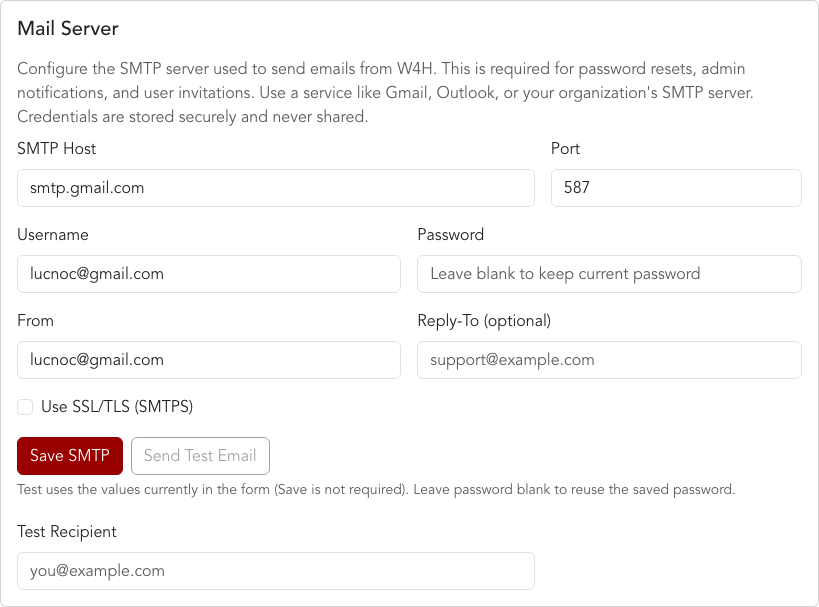
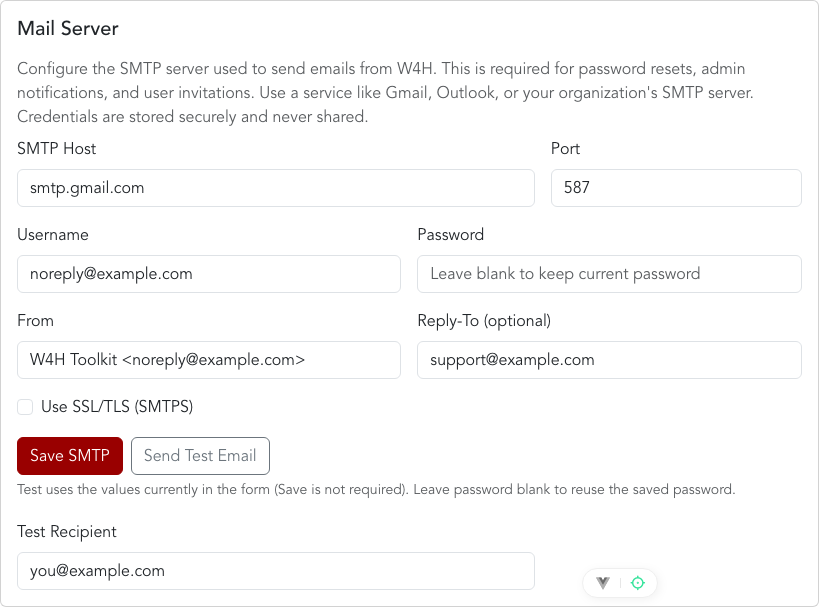
Update role definitions and documentation for project management
- Changed references from "Team admin" to "Project admin" and "Project user" to clarify roles in quick-start.md, ADR-004, and ADR-012.
- Enhanced the "What's New" section to include updates on dataset discoverability and SMTP configuration.
- Updated guides to reflect new role structures and clarified the responsibilities of Super admins, Project admins, and Users.
- Adjusted documentation for SMTP settings to use generic email addresses for better security practices.

diff --git a/dev/ADR-004-acl-roles.md b/dev/ADR-004-acl-roles.md
@@ -8,7 +8,7 @@ updated_at: 2026-07-20T00:00:00.000Z
 
 **Status:** Accepted  
 **Date:** 2026-07-04  
-**Revised:** 2026-07-20  
+**Revised:** 2026-08-12  
 **Deciders:** W4H architecture team  
 **Relates to:** ADR-012 (project–dataset linking), ADR-002 (sharing), ADR-011 (audit)
 
@@ -28,14 +28,13 @@ Access control must be enforceable at the database level (not just the applicati
 
 ### Canonical vocabulary (ADR + MVP)
 
-| Canonical name | Scope | Where stored |
+| UI name | Scope | Where stored |
 |---|---|---|
-| **Super admin** | Platform-wide | `users.role = super_admin` |
-| **Team admin** | One team / trial | `team_members.role = team_admin` |
-| **Member** | One team / trial | `team_members.role = member` |
-| **Project user** (by membership) | One project | `project_members.role` = `owner` \| `editor` \| `viewer` |
+| **Super admin** | Platform-wide | `users.role = super_admin` — **not** a project membership |
+| **Project admin** | One team / project | `team_members.role = team_admin` and/or `project_members.role = owner` |
+| **User** | One team / project | `team_members.role = member`; `project_members.role = editor` (legacy `viewer` displays as User) |
 
-Product copy may still say “Project user” for a non–Super-admin account. Effective team authority comes from **team membership role**, not from a global `users.role = team_admin` (legacy — migrate).
+Super admin is platform-only. Do not put Super admin on a project Members dropdown. Effective team authority comes from **team membership role**, not from a global `users.role = team_admin` (legacy — migrate). Stored values `team_admin` / `member` / `owner` / `editor` are unchanged.
 
 ## Decision
 
@@ -51,12 +50,12 @@ Non–Super-admin accounts do **not** carry global Team admin privileges. Their 
 
 ### 2. Team membership roles (per team)
 
-Stored on `team_members.role`:
+Stored on `team_members.role`. Product UI: **Project admin** / **User**.
 
-| Role | Typical use |
-|---|---|
-| `team_admin` | Manage that team's users, projects, datasets, shares; create further teams after onboard; team-scoped audit/IRB |
-| `member` | Participate via project memberships; no team-wide admin on that team |
+| UI label | Stored as | Typical use |
+|---|---|---|
+| **Project admin** | `team_admin` | Manage that team's users, projects, datasets, shares; create further teams after onboard; team-scoped audit/IRB |
+| **User** | `member` | Participate via project memberships; no team-wide admin on that team |
 
 **Dual-hat:** the same user may be `team_admin` on team A and `member` on team B.
 
@@ -66,15 +65,18 @@ Legacy `users.role = team_admin` migrates to `team_members.role = team_admin` on
 
 ### 3. Project membership roles
 
-A member is assigned to a project with one membership role:
+Product UI on a project roster is **Project admin** or **User**. Super admin is platform-wide and is **not** a project membership.
 
-| Membership | Typical use |
-|---|---|
-| `owner` | Manage the project (members, linked datasets, settings); at least one required |
-| `editor` | Run analytics and notebooks; read linked datasets |
-| `viewer` | Read-only dashboards and docs |
+| UI label | Stored as | Typical use |
+|---|---|---|
+| **Project admin** | `owner` | Manage the project (members, linked datasets, settings); at least one required |
+| **User** | `editor` (legacy `viewer` also shows as User) | Work in the project: analytics, notebooks, linked datasets |
 
-These are **not** a platform tier. Legacy project membership `admin` maps to `owner`.
+These are **not** a platform tier. Legacy project membership `admin` maps to `owner`. Legacy `viewer` is treated as User in the UI.
+
+There is **one** Project admin type. Super admin inviting the PI at onboard does not create a second role — that person is a Project admin like any other. GitHub/GitLab-style orgs work the same way: many owners of equal rank, at least one must remain, and platform operators recover access. Do **not** add a “primary PI” vs “invited admin” split.
+
+A Project admin **cannot remove themselves**. Another Project admin (or Super admin, by inviting a replacement) must do that. The last Project admin cannot be removed or demoted.
 
 ### 4. Resource ACL (optional refinement)
 
@@ -117,8 +119,8 @@ Session `search_path` / DB role must follow the **active team context** for the 
 - Cannot exercise Team admin powers on other teams where they are only `member`
 - Cannot enter the Platform Admin UI (`/admin/*` shell is Super admin only)
 
-**Member can:**
-- Act within projects per `owner` / `editor` / `viewer`
+**User can:**
+- Act within projects as **User** (`editor`; legacy `viewer` displays as User) or **Project admin** (`owner`)
 - Read wearable data for datasets **linked** to their projects only
 - As project **`owner` only:** generate a **project-scoped IRB access report** (H-09b) — not raw audit browse
 - Cannot load/create datasets (unless granted a future ingest capability — D-22), manage team users, or access unlinked datasets
@@ -132,7 +134,7 @@ Session `search_path` / DB role must follow the **active team context** for the 
 - Database-enforced boundaries — a misconfigured application cannot leak data between roles
 - Sharing grants are issued to specific DB roles, making them immediately enforceable and revocable
 - The `w4h_platform` DDL role is the only entity that can create views and issue grants — a controlled and auditable path
-- Aligns MVP language: Super admin (platform) · Team admin / member (per team) · project membership roles
+- Aligns MVP language: Super admin (platform) · Project admin / User (per team and project)
 
 **Negative / risks:**
 - Must migrate legacy global `users.role = team_admin` onto `team_members.role`
@@ -158,3 +160,5 @@ Session `search_path` / DB role must follow the **active team context** for the 
 | 2026-07-21 | Super admin Platform Admin shell only (no app toggle); Team admin self-service teams after onboard (MVP v0.13). |
 | 2026-07-20 | **Per-team roles** on `team_members` (`team_admin` \| `member`); dual-hat; legacy global Team admin migrates to membership. Ingest-without-admin = ACL/capability (MVP D-22), not a third team role. |
 | 2026-07-22 | Usage surface `/admin/usage` (study metrics); Team admin team-scoped view; members cannot browse Usage ledger. |
+| 2026-08-12 | Product UI: **Super admin** · **Project admin** · **User**. Stored `team_admin`/`member` and `owner`/`editor` unchanged; Super admin is not a project membership. |
+| 2026-08-12 | One Project admin type (no primary vs invited split). Project admin cannot remove themselves; at least one must remain. |

diff --git a/guide/smpt-configuration.md b/guide/smpt-configuration.md
@@ -76,10 +76,10 @@ Open **Administration → Mail Server** and configure the following fields.
 |--------|-------|
 | SMTP Host | `smtp.gmail.com` |
 | Port | `587` |
-| Username | Your Gmail address |
+| Username | Your Gmail address (SMTP auth only) |
 | Password | Google App Password |
-| From | `Your Name <your@gmail.com>` |
-| Reply-To | Optional |
+| From | `W4H Toolkit <noreply@example.com>` |
+| Reply-To | Optional (e.g. `support@example.com`) |
 | Use SSL/TLS (SMTPS) | **Disabled** |
 
 ---
@@ -89,14 +89,20 @@ Open **Administration → Mail Server** and configure the following fields.
 ```text
 SMTP Host : smtp.gmail.com
 Port      : 587
-Username  : your@gmail.com
+Username  : your-gmail@example.com
 Password  : <Google App Password>
+From      : W4H Toolkit <noreply@example.com>
+Reply-To  : support@example.com
 
 SSL/TLS   : Disabled
 STARTTLS  : Enabled automatically by SMTP client
 ```
 
 Port **587** uses **STARTTLS**, which upgrades the connection to TLS after connecting.
+
+> **Tip**
+>
+> Use a **generic From address** such as `noreply@example.com` in docs and on shared environments. Username is only for authenticating to the SMTP provider (for Gmail, that is still your Google account address).
 
 ---
 
@@ -126,10 +132,10 @@ SSL/TLS   : Enabled
 |---------|---------|
 | SMTP Host | smtp.gmail.com |
 | Port | 587 |
-| Username | john.doe@gmail.com |
+| Username | your-gmail@example.com |
 | Password | Google App Password |
-| From | John Doe \<john.doe@gmail.com\> |
-| Reply-To | john.doe@gmail.com |
+| From | W4H Toolkit \<noreply@example.com\> |
+| Reply-To | support@example.com |
 
 ---
 

diff --git a/guide/setting-up-projects.md b/guide/setting-up-projects.md
@@ -14,9 +14,9 @@ action_label: Read the guide
   Datasets stay owned by a <strong>team</strong>; projects <em>link</em> them — they do not move ownership.
 </p>
 
-This guide is for **Team admins** (and Super admins reading for context). It covers single-team multi-dataset projects and cross-team setups via **shares**. Design details: [ADR-012]({{APP_URL}}/docs/ADR-012-project-dataset-linking).
+This guide is for **Project admins** (and Super admins reading for context). It covers single-team multi-dataset projects and cross-team setups via **shares**. Design details: [ADR-012]({{APP_URL}}/docs/ADR-012-project-dataset-linking).
 
-**Shells:** Team admins work in the **app shell** (`W4H Toolkit`). Super admins stay in **Platform Admin** (`W4H Toolkit Admin`) for bootstrap only — they do not toggle into the app shell.
+**Shells:** Project admins work in the **app shell** (`W4H Toolkit`). Super admins stay in **Platform Admin** (`W4H Toolkit Admin`) for bootstrap only — they do not toggle into the app shell.
 
 ---
 
@@ -68,7 +68,7 @@ Use this when all study datasets already belong to **one** team (the usual case)
 1. Open **Projects → Add Project** and set the **owning team** to that team.
 2. Open the project → **Linked datasets**.
 3. **Add** each dataset you need (any number).
-4. Add **Members** (`owner` / `editor` / `viewer`) from that team.
+4. Add **Members** from that team: **Project admin** (manages the study) or **User** (works in it). Super admin is not assigned on a project.
 
 ```mermaid
 flowchart TD

diff --git a/quick-start.md b/quick-start.md
@@ -27,11 +27,11 @@ For the full architectural picture — schema-per-trial isolation, dataset shari
 
 | Role | Shell | What you can do |
 |---|---|---|
-| **Super admin** | **Platform Admin** only (`W4H Toolkit Admin`) | Bootstrap the platform: SMTP, initial teams, invite Team admins, audit, usage, settings. Does **not** run day-to-day trials. |
-| **Team admin** | App shell (`W4H Toolkit`) | Own trials: teams, datasets, projects, members, shares. |
-| **Project user** | App shell | Work in assigned projects (`owner` / `editor` / `viewer`). |
+| **Super admin** | **Platform Admin** only (`W4H Toolkit Admin`) | Bootstrap the platform: SMTP, initial teams, invite Project admins, audit, usage, settings. Does **not** run day-to-day trials. |
+| **Project admin** | App shell (`W4H Toolkit`) | Own trials: teams, datasets, projects, members, shares. |
+| **User** | App shell | Work in assigned projects. |
 
-There is **no** “toggle Admin UI” for Super admins — they land in Platform Admin on login and stay there. Team admins never enter Platform Admin. See [ADR-004]({{APP_URL}}/docs/ADR-004-acl-roles) and MVP §3.0 (onboarding).
+There is **no** “toggle Admin UI” for Super admins — they land in Platform Admin on login and stay there. Project admins never enter Platform Admin. See [ADR-004]({{APP_URL}}/docs/ADR-004-acl-roles) and MVP §3.0 (onboarding).
 
 ---
 

diff --git a/dev/architecture.md b/dev/architecture.md
@@ -145,9 +145,8 @@ Team admin is **per team** (`team_members.role`), not a single global user flag 
 | Role | Scope | Key permissions |
 |---|---|---|
 | Super admin | Platform-wide (`users.role`) | Platform Admin shell only: bootstrap teams/users, audit, settings. Does **not** configure individual trials day-to-day |
-| Team admin | Per team (`team_members.role = team_admin`) | App shell: create teams/projects/datasets, manage members, shares |
-| Member | Per team (`team_members.role = member`) | Participate via project memberships on that team |
-| Project membership | Per project (`owner` / `editor` / `viewer`) | Refine what a member may do inside a project |
+| Project admin | Per team (`team_members.role = team_admin`) and/or per project (`project_members.role = owner`) | App shell: create teams/projects/datasets, manage members, shares |
+| User | Per team (`team_members.role = member`); per project (`editor`, legacy `viewer`) | Participate in assigned projects |
 
 **Ingest without Team admin** (e.g. PI delegates ETL to a student) is a finer-grained **capability/ACL** grant (MVP D-22), not a third team membership role.
 

diff --git a/media/README.md b/media/README.md
@@ -63,8 +63,18 @@ PLAYWRIGHT_BROWSERS_PATH="$HOME/Library/Caches/ms-playwright" \
 node scripts/capture-whats-new-extra.mjs
 # SMTP card + Usage period GIF (fixes sticky-nav / clipped bars):
 node scripts/recapture-smtp-usage.mjs
+# Setup walkthrough GIF (generic SMTP / help emails in Settings frame):
+node scripts/recapture-setup-gif.mjs
+# Datasets catalog (Team admin app shell — Datasets selected):
+W4H_TEAM_EMAIL=… W4H_TEAM_PASSWORD=… node scripts/recapture-datasets.mjs
 ```
 
+Docs captures overwrite Username / From / Help email with `noreply@example.com` and
+`support@example.com` **in the browser only** (forms are not Saved).
+
+Dataset catalog shots must use a **Team admin** login so the app shell shows **Datasets**
+selected. Super admin Platform Admin chrome also has Datasets (platform-wide), but
+discoverability docs default to the team app-shell view.
 ## Monthly What's New archive
 
 Keep `whats-new.md` as the **current month** only. Older months live under `releases/`

diff --git a/dev/ADR-012-project-dataset-linking.md b/dev/ADR-012-project-dataset-linking.md
@@ -35,9 +35,9 @@ Confusion arises if “shared project” is assumed: MVP projects have **one own
 
 | Role | Scope | Notes |
 |---|---|---|
-| **Super admin** | Platform-wide | Formerly “Super-Admin” in early MVP drafts |
-| **Team admin** | Own team / trial | Formerly “Group Admin” — same role |
-| **Project user** | Assigned projects | Membership roles: `owner`, `editor`, `viewer` |
+| **Super admin** | Platform-wide | Formerly “Super-Admin” in early MVP drafts. Not a project membership. |
+| **Project admin** | Own team / project | UI name for stored `team_admin` / project `owner`. Formerly “Team admin” / “Group Admin”. |
+| **User** | Assigned projects | Stored as `member` on the team and `editor` on the project (legacy `viewer` displays as User). |
 
 Team admin inherits Project user capabilities within their team. Project membership roles refine what a Project user may do on a given project (ADR-004).
 

diff --git a/whats-new.md b/whats-new.md
@@ -88,7 +88,9 @@ After onboard, the PI self-serves further trials. Super admin does **not** appro
 
 ## Discoverable datasets
 
-Other teams can now **see** datasets you mark as discoverable (name, description, owning team) under **Others** — without being able to link or query them until you **share**.
+In the **app shell** (Team admin), open **Datasets**. Other teams can **see** datasets you mark as discoverable (name, description, owning team) under **Others** — without being able to link or query them until you **share**.
+
+Super admins can open the same catalog from **Datasets** in Platform Admin (all teams).
 
 Use the catalog filters to focus your work:
 
